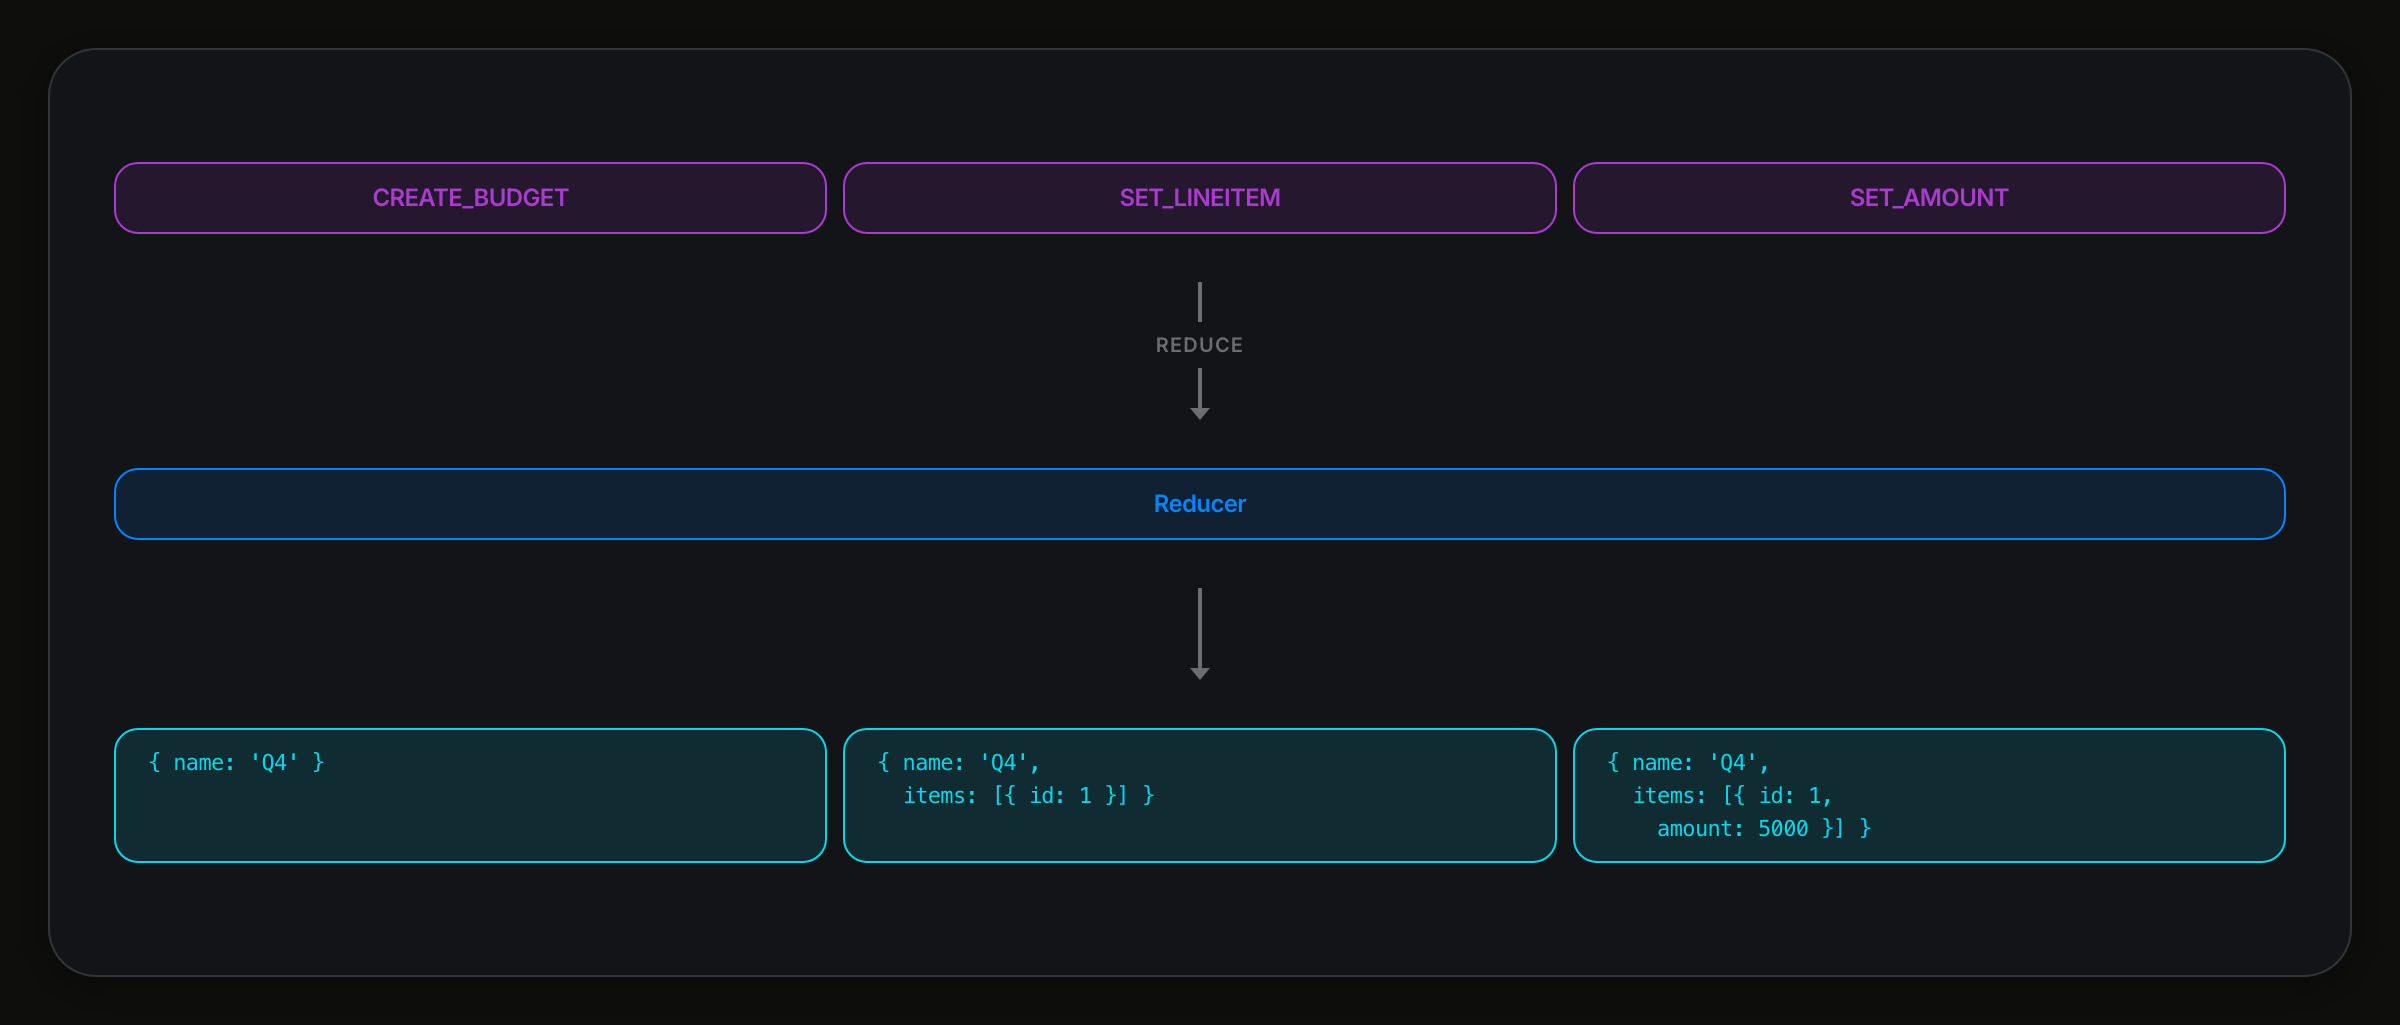
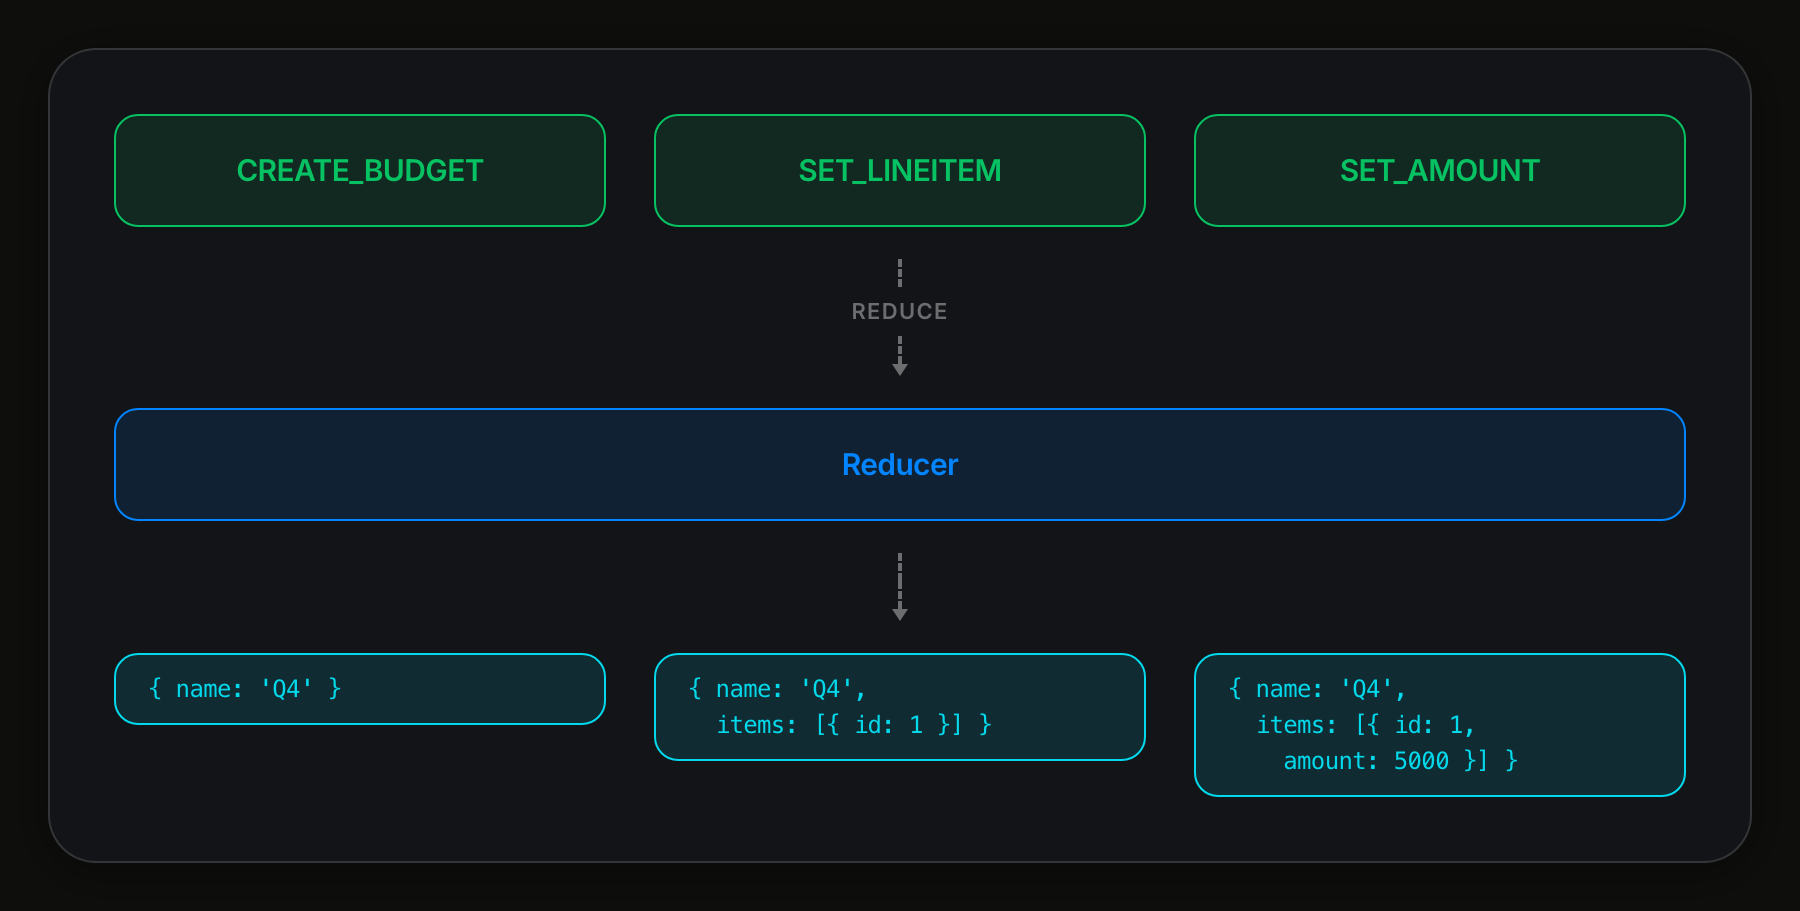
rebuild: command sourcing diagram at event-sourcing's scale
Picks up the reworked action-stream-reducer page from ../ph-diagrams, now
embedded at data-w=900 instead of 1200.

diff --git a/index.html b/index.html
@@ -66,7 +66,7 @@
       <section data-slide="9"><header class="hd"><h2>Where we started: the reducer</h2><span class="sec">Act I — Document Models</span></header><div class="art"><div class="fit"><iframe src="diagrams/pages/reducer-update-loop.html" data-w="700" style="width:700px" scrolling="no" title="Flux/Redux reducer loop"></iframe></div></div><aside class="notes"><h4>Where we started: the reducer</h4><ul><li>I: &quot;a function, called a reducer, takes a state object and a command and outputs the next state.&quot;</li><li>I: &quot;The flux pattern breaks down every state change into simple data and pure functions, making them extremely easy to isolate and test.&quot;</li><li>I: &quot;how do you reconstruct state if you didn't already have it, and secondly (though related), how would you synchronize state between multiple users, especially given the constraint of append-only storage? Oh and a nit-picky third: how the heck do you scale this approach?&quot;</li></ul></aside></section>
       <section data-slide="10"><header class="hd"><h2>Event sourcing: state as a stream</h2><span class="sec">Act I — Document Models</span></header><div class="art"><div class="fit"><iframe src="diagrams/pages/event-sourcing.html" data-w="700" style="width:700px" scrolling="no" title="State as a stream of events"></iframe></div></div><aside class="notes"><h4>Event sourcing: state as a stream</h4><ul><li>I: &quot;This architecture describes an object's state not as some explicit object, but as a stream of the events that create the object.&quot;</li><li>I: &quot;All the sudden we don't just have a username, we have an entire history of usernames along with descriptive reasons why the username changed at all.&quot;</li></ul></aside></section>
       <section data-slide="11"><header class="hd"><h2>Aggregates: many views from one stream</h2><span class="sec">Act I — Document Models</span></header><div class="art"><div class="fit"><iframe src="diagrams/pages/event-sourcing-aggregates.html" data-w="700" style="width:700px" scrolling="no" title="Folding a stream into an aggregate"></iframe></div></div><aside class="notes"><h4>Aggregates: many views from one stream</h4><ul><li>I: &quot;we could move along an event stream and count the number of times the username was changed. That would create a single number: an aggregate.&quot;</li><li>I: &quot;we don't really need to know what aggregates we'll need when we launch. We could ship the product, have it in production for three years, and only then think about unique-for-all-time usernames.&quot;</li></ul></aside></section>
-      <section data-slide="12"><header class="hd"><h2>Command sourcing: store the intent, not the result</h2><span class="sec">Act I — Document Models</span></header><div class="art"><div class="fit"><iframe src="diagrams/pages/action-stream-reducer.html" data-w="1200" style="width:1200px" scrolling="no" title="Action stream reduced to states"></iframe></div></div><aside class="notes"><h4>Command sourcing: store the intent, not the result</h4><ul><li>I: &quot;in command sourcing, we don't store the output, we store the command. The difference seems slight but we are aiming for both the data and the execution to be locally owned by the user. This means that each user needs to be able to run the command itself to get the resulting state change.&quot;</li></ul></aside></section>
+      <section data-slide="12"><header class="hd"><h2>Command sourcing: store the intent, not the result</h2><span class="sec">Act I — Document Models</span></header><div class="art"><div class="fit"><iframe src="diagrams/pages/action-stream-reducer.html" data-w="900" style="width:900px" scrolling="no" title="Action stream reduced to states"></iframe></div></div><aside class="notes"><h4>Command sourcing: store the intent, not the result</h4><ul><li>I: &quot;in command sourcing, we don't store the output, we store the command. The difference seems slight but we are aiming for both the data and the execution to be locally owned by the user. This means that each user needs to be able to run the command itself to get the resulting state change.&quot;</li></ul></aside></section>
       <section data-slide="13"><header class="hd"><h2>The Document Model</h2><span class="sec">Act I — Document Models</span></header><div class="art"><div class="fit"><iframe src="diagrams/pages/document-model-architecture.html" data-w="700" style="width:700px" scrolling="no" title="Document model: specification + reducer → PHDocument"></iframe></div></div><aside class="notes"><h4>The Document Model</h4><ul><li>I: &quot;A Document Model defines the shape of documents and the logic that can be executed to change (or mutate) a document's state. They are defined in three parts: a state schema, an action schema (the shape of mutation payloads), and a reducer which applies actions to the state.&quot;</li><li>Left: schema first, codegen gives types and reducer stubs. Right: reducer emits a PHDocument, &quot;a stream of Operations and the state produced by them.&quot;</li><li>I: &quot;We use the term Operation to refer to the result of an applied Action.&quot; Action is the signed intent; Operation is the result.</li><li>I: &quot;Document Models are themselves documents.&quot;</li></ul></aside></section>
       <section data-slide="14"><header class="hd"><h2>The runtime: CQRS</h2><span class="sec">Act II — The Reactor</span></header><div class="art"><div class="fit"><iframe src="diagrams/pages/reactor-cqrs.html" data-w="700" style="width:700px" scrolling="no" title="Reactor CQRS: write side, event bus, read side"></iframe></div></div><aside class="notes"><h4>The runtime: CQRS</h4><ul><li>I: &quot;the actual management and execution runtime is called The Reactor.&quot;</li><li>I: &quot;this pattern separates writes and reads, allowing us to operate and scale each end of The Reactor independently (at the slight cost of consistency).&quot;</li><li>Write side: queue into N executors running the authored reducers. I: &quot;These executors are 'location transparent'... we could run them pretty much anywhere: in worker, a different process, or on some other machine in a faraway place.&quot;</li><li>Event bus. I: &quot;intended to be in-memory while running in a browser (this part is deployed), and something more robust in a server environment, like RabbitMQ (this part is not deployed).&quot;</li><li>Read side: a coordinator hands <code>Operation[]</code> to read models.</li></ul></aside></section>
       <section data-slide="15"><header class="hd"><h2>A read model: DocumentView</h2><span class="sec">Act II — The Reactor</span></header><div class="art"><div class="fit"><iframe src="diagrams/pages/read-model.html" data-w="700" style="width:700px" scrolling="no" title="DocumentView projects operations into a Postgres table"></iframe></div></div><aside class="notes"><h4>A read model: DocumentView</h4><ul><li>I: &quot;The built-in DocumentView is a read model... that builds a table of latest document state in a Postgres table.&quot;</li><li>I: &quot;The authoritative store of operations could be the slowest blockchain on the moon, but we would still get fast reads from a turbocharged read model.&quot;</li><li>Also built in: DocumentIndexer, &quot;a graph of relationships between documents.&quot;</li></ul></aside></section>

diff --git a/diagrams/pages/action-stream-reducer.html b/diagrams/pages/action-stream-reducer.html
@@ -9,66 +9,74 @@
   <link rel="stylesheet" href="../css/base.css">
   <link rel="stylesheet" href="../css/components.css">
   <style>
-    .frame { max-width: 1200px; }
+    /* Type scale, box and connector constants are lifted from event-sourcing.html so the
+       two slides read as a pair: same box padding, same 15px label, same 12px mono state
+       snapshot, same dashed connector. Narrower frame than before (1200 -> 900) because the
+       deck scales the page to fit its art box, so a narrower design width renders larger. */
+    .frame { max-width: 900px; }
     .card { height: auto; }
     .card-body { flex: none; }
 
+    /* Shared box style — event-sourcing.html */
     .box {
       background: var(--bg-elevated);
       border: 1px solid var(--border-glass);
       border-radius: var(--radius-md);
-      padding: var(--space-sm) var(--space-md);
-      font-size: 12px;
+      padding: var(--space-md) var(--space-lg);
+      font-size: 15px;
       font-weight: var(--font-weight-semibold);
       text-align: center;
-      white-space: nowrap;
     }
-    .box.accent-cyan   { border-color: var(--accent-cyan);   background: var(--accent-cyan-bg);   color: var(--accent-cyan); }
-    .box.accent-blue   { border-color: var(--accent-blue);   background: var(--accent-blue-bg);   color: var(--accent-blue); }
-    .box.accent-purple { border-color: var(--accent-purple); background: var(--accent-purple-bg); color: var(--accent-purple); }
+    .box.accent-cyan  { border-color: var(--accent-cyan);  background: var(--accent-cyan-bg);  color: var(--accent-cyan); }
+    .box.accent-blue  { border-color: var(--accent-blue);  background: var(--accent-blue-bg);  color: var(--accent-blue); }
+    .box.accent-green { border-color: var(--accent-green); background: var(--accent-green-bg); color: var(--accent-green); }
 
+    /* State snapshot box — monospace text, left-aligned — event-sourcing.html */
     .box.state-snapshot {
-      font-family: var(--font-mono, 'SF Mono', 'Fira Code', monospace);
-      font-size: 11px;
+      font-family: var(--font-mono, 'SF Mono', 'Fira Code', 'Fira Mono', monospace);
+      font-size: 12px;
       font-weight: var(--font-weight-medium);
       text-align: left;
       white-space: pre;
       line-height: 1.5;
+      padding: var(--space-sm) var(--space-md);
+      width: 100%;
     }
 
-    .op-row {
-      display: flex;
-      gap: var(--space-sm);
-      justify-content: center;
+    /* Action and state rows share one 3-column track so each action sits above its state. */
+    .row {
+      display: grid;
+      grid-template-columns: 1fr 1fr 1fr;
+      gap: var(--space-lg);
+      align-items: start;
     }
-    .op-row .box {
-      flex: 1;
-    }
+    .row .box.action { white-space: nowrap; }
 
-    .arrow-down {
+    /* Vertical dashed connector with downward arrow — event-sourcing.html */
+    .conn {
       display: flex;
       flex-direction: column;
       align-items: center;
-      margin: var(--space-lg) 0;
+      margin: var(--space-md) 0;
     }
-    .arrow-down-line {
+    .conn-line {
       width: 2px;
-      height: 20px;
-      background: var(--text-muted);
+      height: 14px;
+      border-left: 2px dashed var(--text-muted);
     }
-    .arrow-down-label {
-      font-size: 10px;
+    .conn-label {
+      font-size: 11px;
       font-weight: var(--font-weight-semibold);
       color: var(--text-muted);
       text-transform: uppercase;
       letter-spacing: 0.06em;
       margin: var(--space-xs) 0;
     }
-    .arrow-down-head {
+    .conn-head {
       width: 0;
       height: 0;
-      border-left: 5px solid transparent;
-      border-right: 5px solid transparent;
+      border-left: 4px solid transparent;
+      border-right: 4px solid transparent;
       border-top: 6px solid var(--text-muted);
     }
   </style>
@@ -76,35 +84,32 @@
 <body>
   <div class="frame">
     <div class="card">
-      <div class="card-body" style="padding-top: 24px; padding-bottom: 24px;">
+      <div class="card-body">
 
-        <!-- Actions row -->
-        <div class="op-row">
-          <div class="box accent-purple">CREATE_BUDGET</div>
-          <div class="box accent-purple">SET_LINEITEM</div>
-          <div class="box accent-purple">SET_AMOUNT</div>
+        <!-- Actions: the stored intent -->
+        <div class="row">
+          <div class="box accent-green action">CREATE_BUDGET</div>
+          <div class="box accent-green action">SET_LINEITEM</div>
+          <div class="box accent-green action">SET_AMOUNT</div>
         </div>
 
-        <!-- Arrow -->
-        <div class="arrow-down">
-          <div class="arrow-down-line"></div>
-          <div class="arrow-down-label">reduce</div>
-          <div class="arrow-down-line"></div>
-          <div class="arrow-down-head"></div>
+        <div class="conn">
+          <div class="conn-line"></div>
+          <div class="conn-label">reduce</div>
+          <div class="conn-line"></div>
+          <div class="conn-head"></div>
         </div>
 
-        <!-- Reducer -->
-        <div class="box accent-blue" style="width: 100%;">Reducer</div>
+        <div class="box accent-blue">Reducer</div>
 
-        <!-- Arrow -->
-        <div class="arrow-down">
-          <div class="arrow-down-line"></div>
-          <div class="arrow-down-line"></div>
-          <div class="arrow-down-head"></div>
+        <div class="conn">
+          <div class="conn-line"></div>
+          <div class="conn-line"></div>
+          <div class="conn-head"></div>
         </div>
 
-        <!-- States row -->
-        <div class="op-row">
+        <!-- States: the result, derived rather than stored -->
+        <div class="row">
           <div class="box accent-cyan state-snapshot">{ name: 'Q4' }</div>
           <div class="box accent-cyan state-snapshot">{ name: 'Q4',
   items: [{ id: 1 }] }</div>
